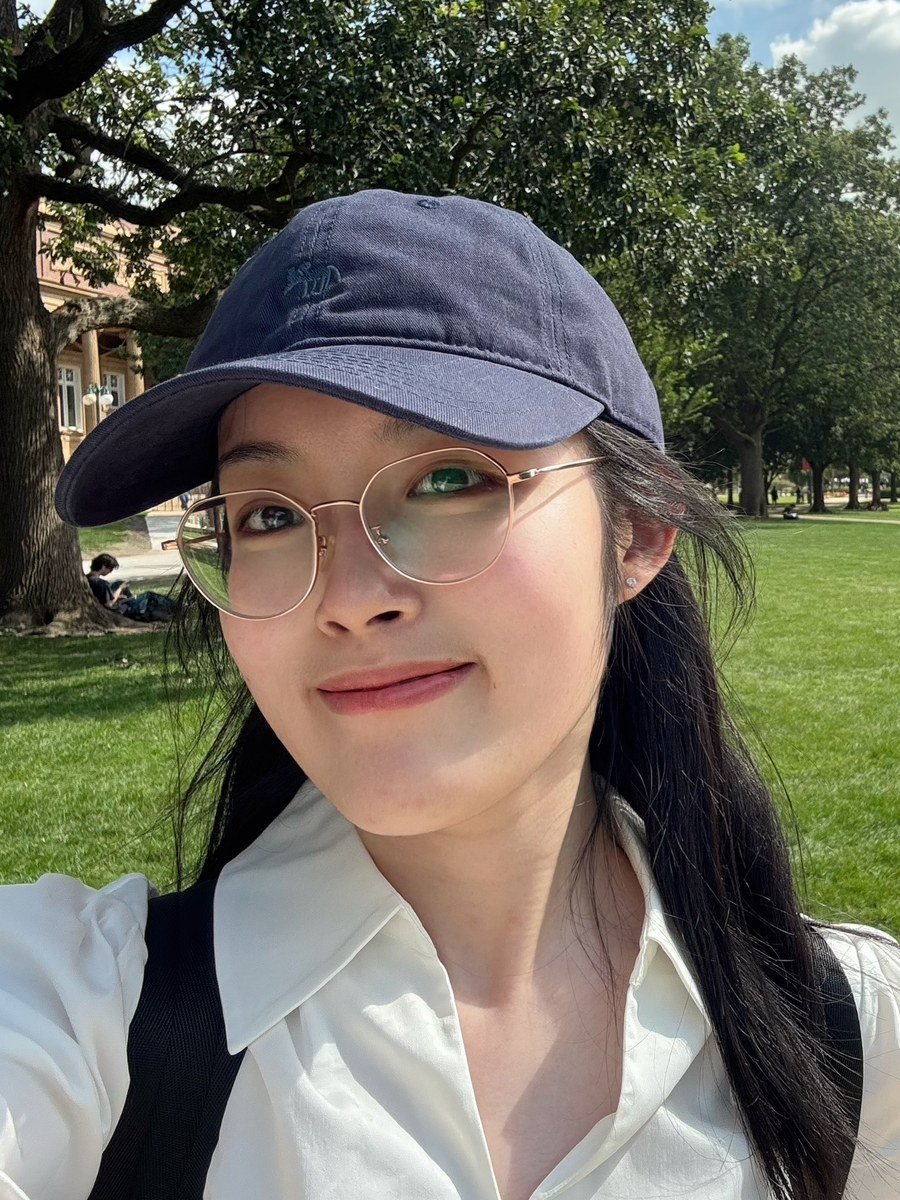
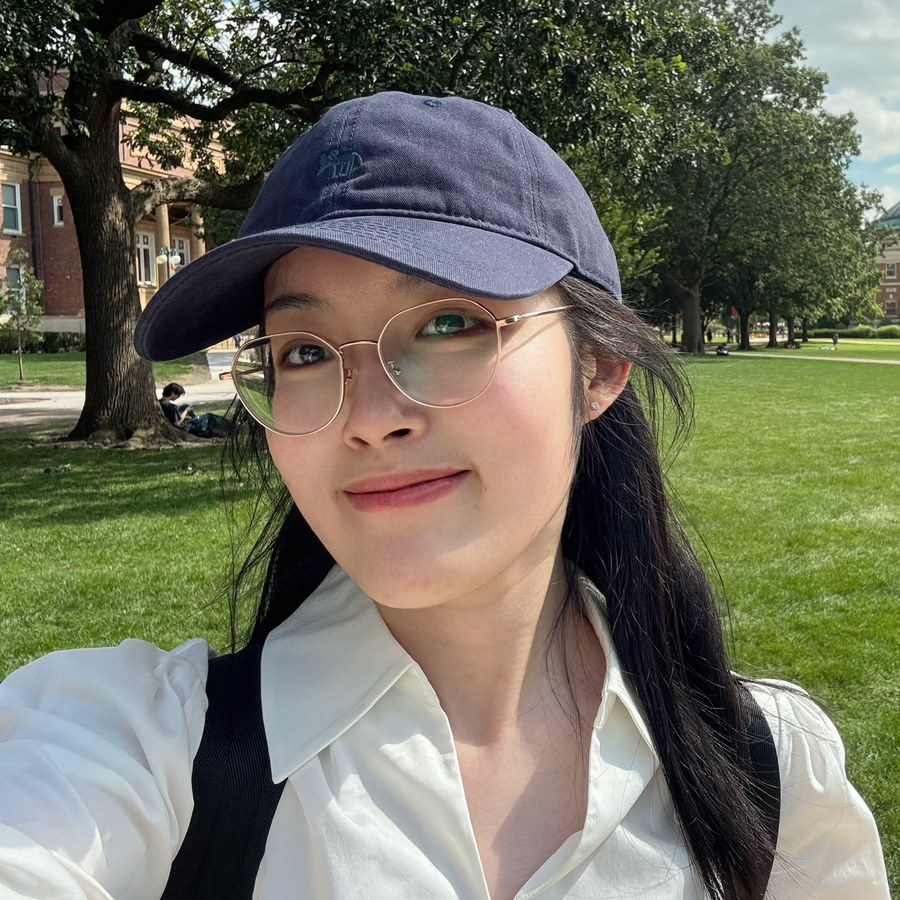
Make the portrait square

diff --git a/assets/css/style.css b/assets/css/style.css
@@ -103,7 +103,7 @@ html[data-theme="dark"] .theme-toggle .i-moon{ display:block; }
 }
 
 .portrait{
-  width:156px; height:208px; border-radius:50%;
+  width:190px; height:190px; border-radius:8px;
   background:var(--paper-2);
   border:1px solid var(--line);
   display:grid; place-items:center;
@@ -112,7 +112,7 @@ html[data-theme="dark"] .theme-toggle .i-moon{ display:block; }
   position:relative;
 }
 .portrait::before{
-  content:""; position:absolute; inset:-1px; border-radius:50%;
+  content:""; position:absolute; inset:-1px; border-radius:8px;
   background:conic-gradient(from 210deg, var(--accent-soft), transparent 45%, var(--amber-soft) 70%, transparent);
   opacity:.75;
 }

diff --git a/index.html b/index.html
@@ -49,7 +49,7 @@
     <div class="rail-inner">
 
       <div class="portrait">
-        <img src="assets/img/profile.jpg" alt="Chuyue Li" width="156" height="208">
+        <img src="assets/img/profile.jpg" alt="Chuyue Li" width="190" height="190">
       </div>
 
       <h1 class="name">Chuyue&nbsp;Li</h1>
